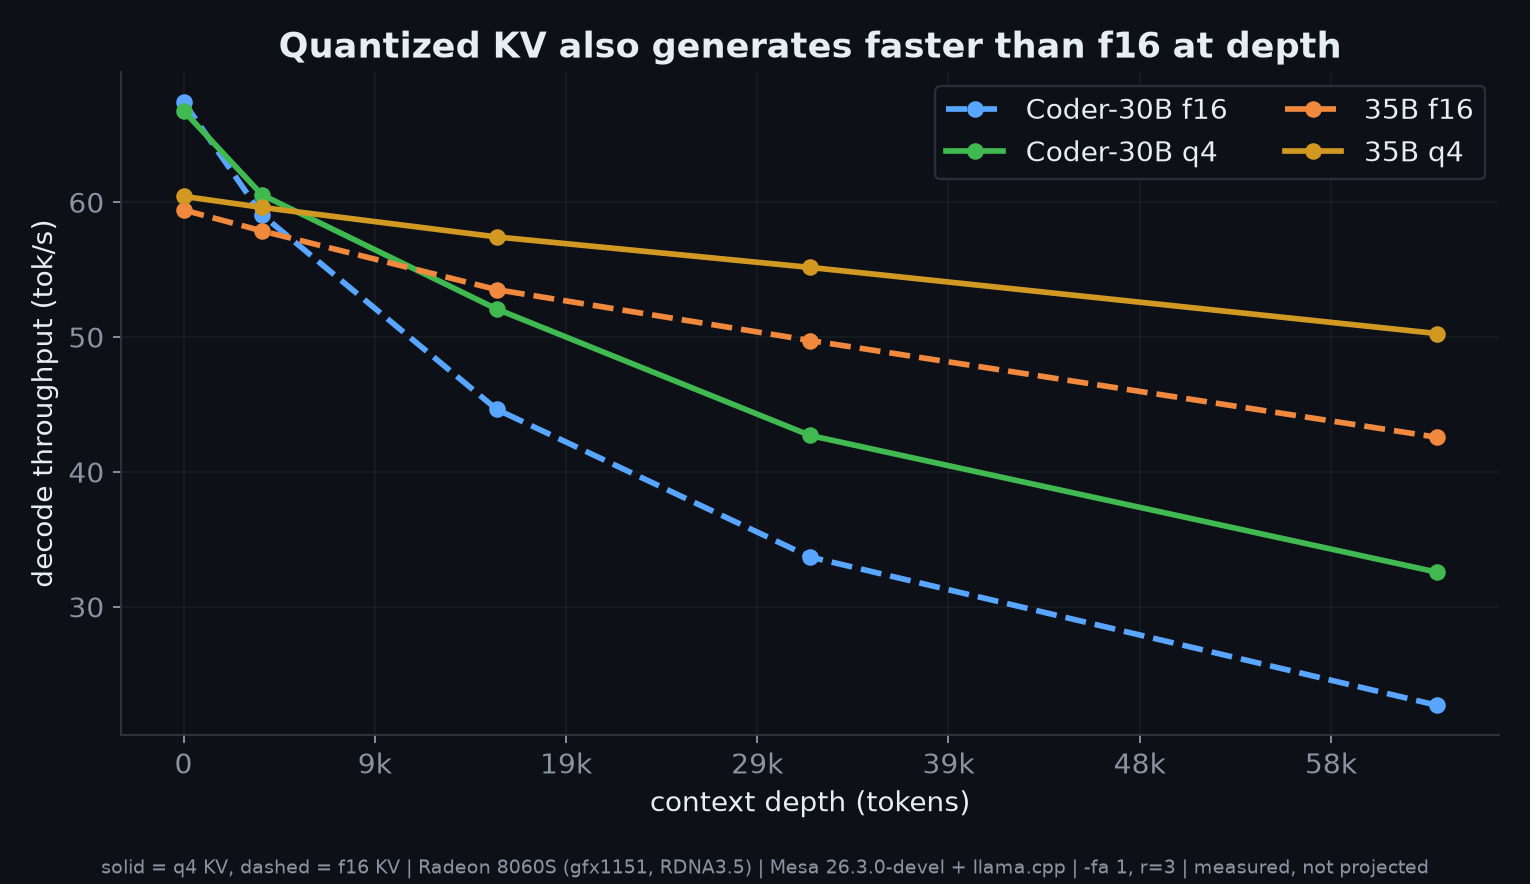
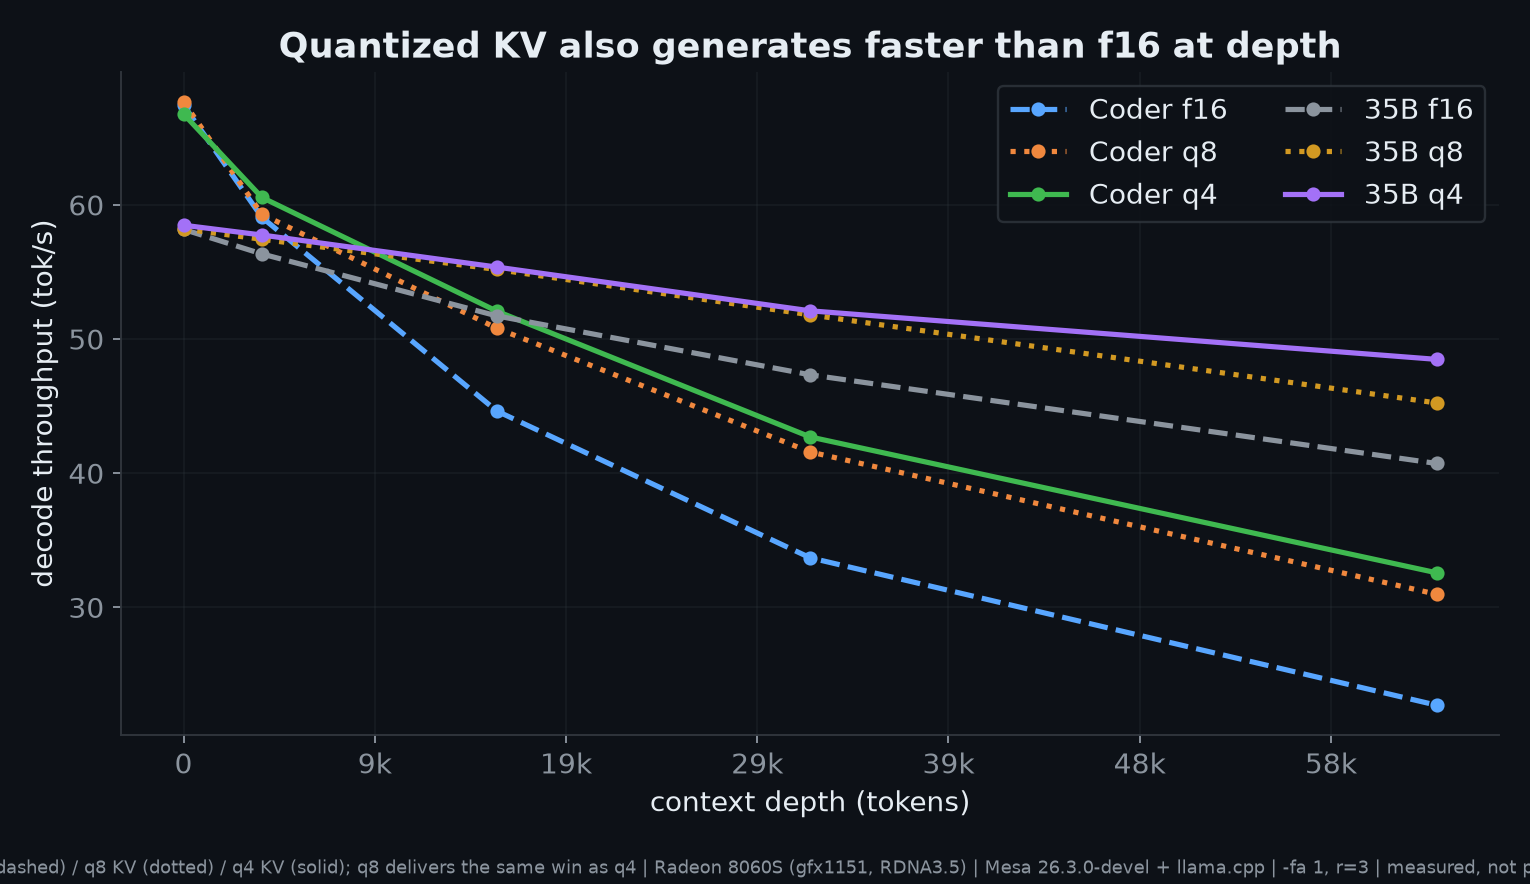
Graphs: add q8 KV (delivers same win as q4); add push-images.sh + host-tuning (amd_iommu) + publishing docs

diff --git a/README.md b/README.md
@@ -148,6 +148,20 @@ fixes-vs-tweaks taxonomy are in [BRANCHES.md](BRANCHES.md).
 - GPU driver: Mesa 26.3.0-devel (RADV), built with libdrm 2.4.133, shader compiler shaderc v2026.3-dev.
 - llama.cpp: recent master with the fixes applied. HIP build on ROCm 7.2.4.
 
+## Host tuning (optional)
+
+- **`amd_iommu=off`** (kernel boot parameter): removes IOMMU address-translation overhead on GPU memory
+  access, which can help on this bandwidth-bound hardware. This is host kernel config, not part of the
+  toolbox. To try it: reboot, at the GRUB menu press `e`, append `amd_iommu=off` to the `linux` line,
+  `Ctrl-X` (one-shot); or add it to `GRUB_CMDLINE_LINUX_DEFAULT` and `sudo update-grub` to persist. It is
+  a security tradeoff (the IOMMU provides DMA isolation), so verify the effect on your box first. (Measured
+  effect on this box: to be filled in from the A/B.)
+
+## Publishing (maintainers)
+
+- Images to a registry: `docker login <registry>`, then `REGISTRY=docker.io/<you> ./push-images.sh`.
+- Portable dir to a GitHub Release: `tar czf strix-halo-llamacpp-vulkan-portable.tar.gz vulkan README.md`.
+
 ## Notes and caveats
 
 - Vulkan is the recommended default on this hardware; the HIP image is for quantized-KV
